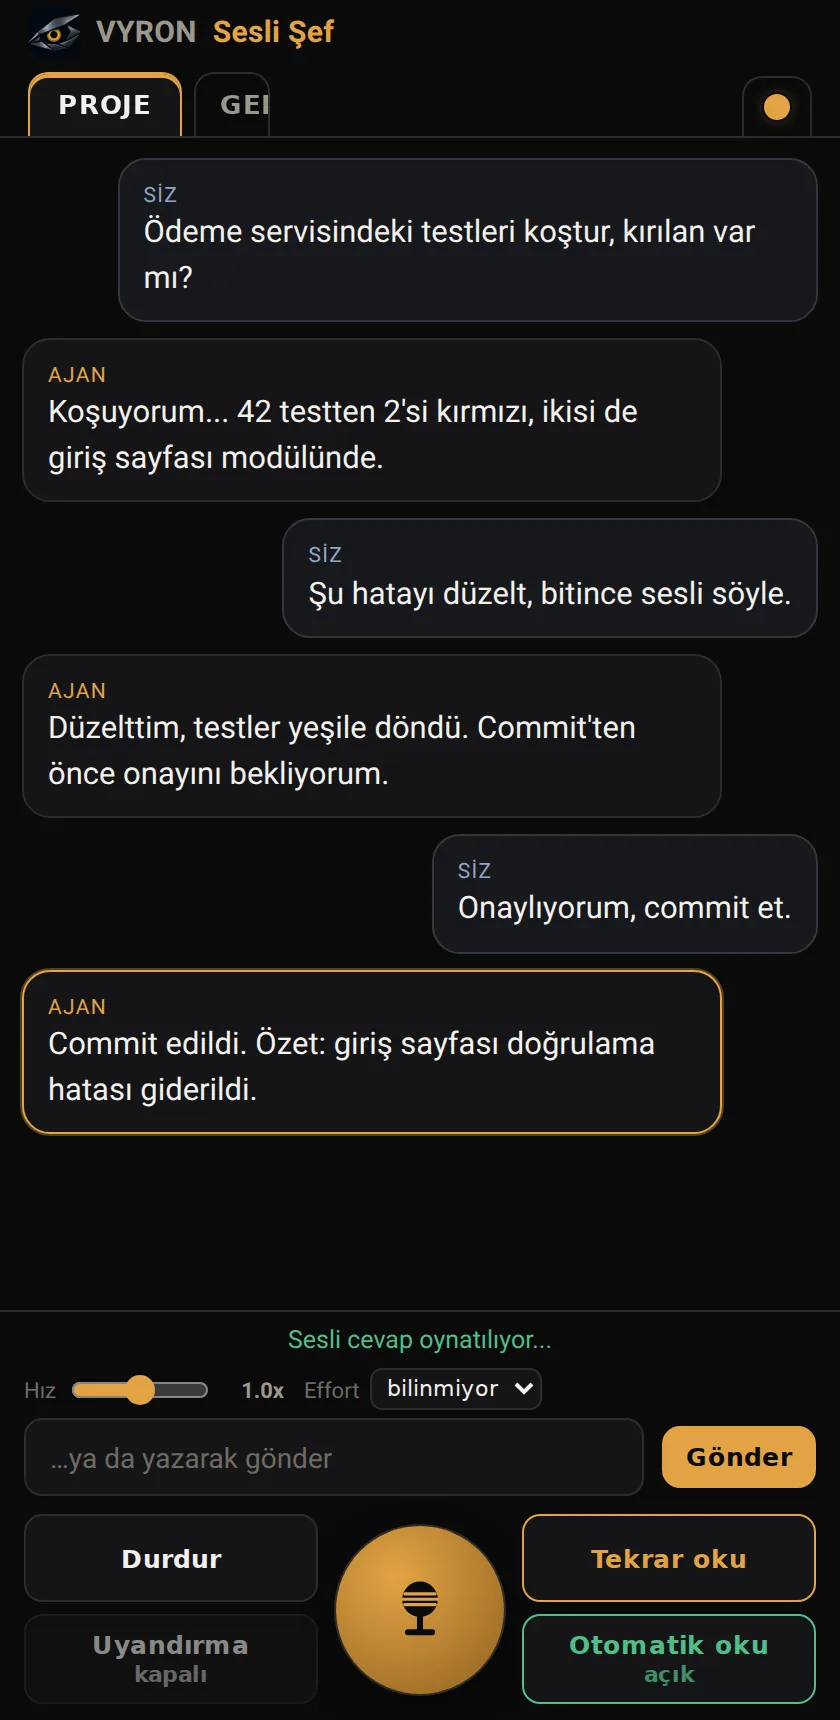
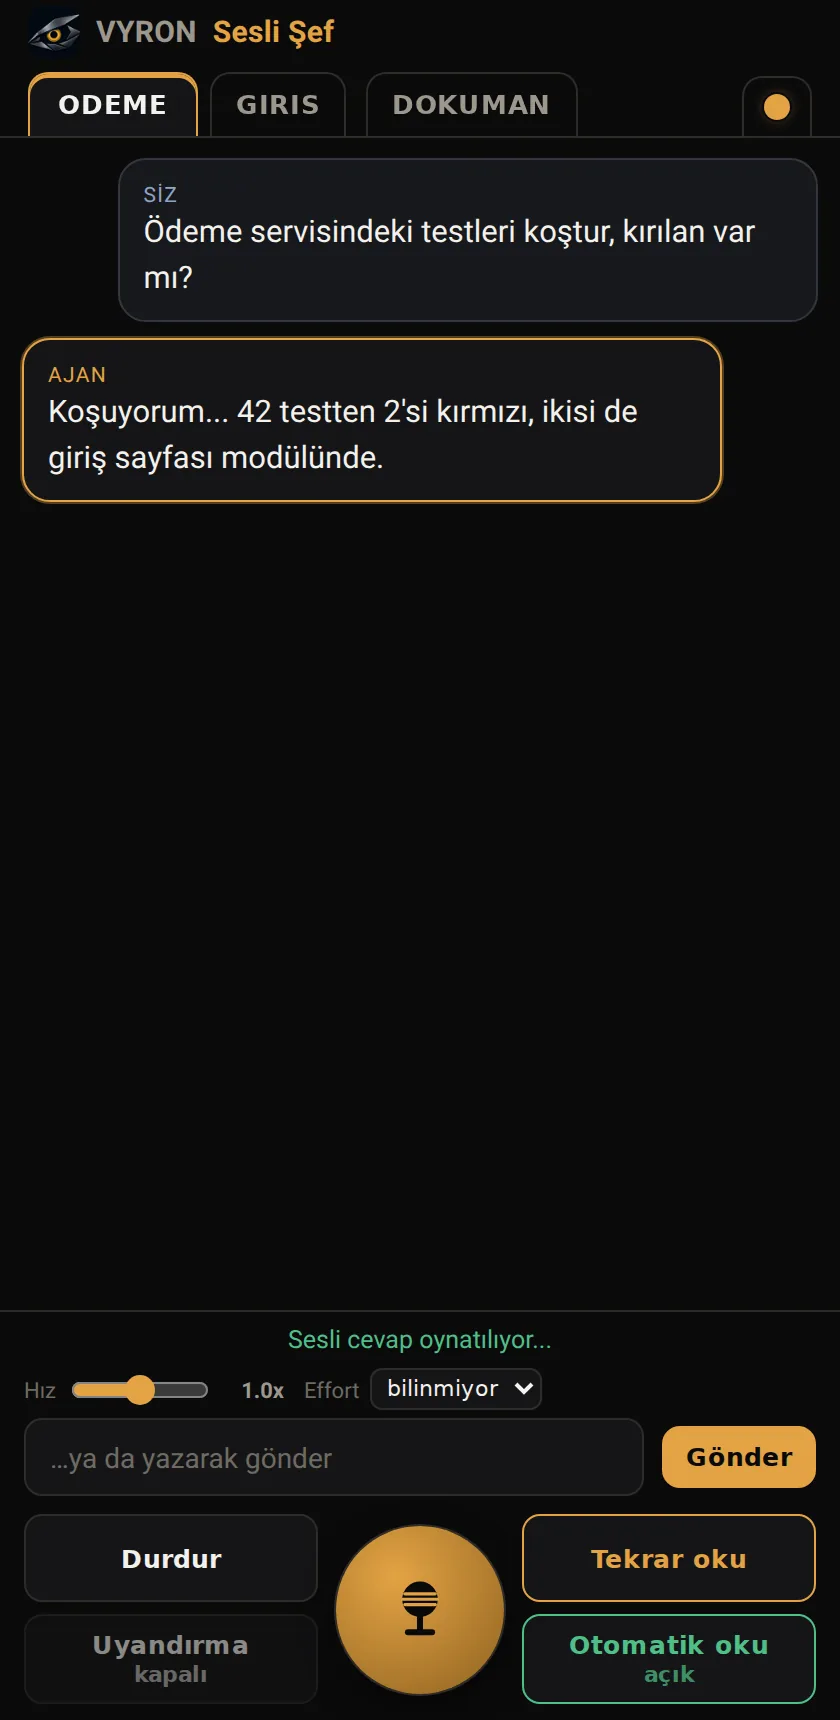
Sesli Şef ikinci görsel gerçek çerçevede yenilendi, konuşma kutusu kaldırıldı; Hakkında metni yalnız AWS
- sesli-sef-cevap.webp: uygulamanın kendi temasıyla farklı an (cevap oynatılıyor, ODEME/GIRIS/DOKUMAN sekmeleri), uydurma içerik
- index.html: ayrı HTML sohbet kutusu kaldırıldı, görseller yan yana büyütüldü; Hakkında ilk paragrafı Demir'in metniyle değişti
- yenileme.css: kullanılmayan sohbet-* kuralları silindi, Sesli Şef grid oranı
- hakkinda.html satır 54 ve 87: Google desteği ifadesi çıkarıldı, yalnız AWS başlangıç programı
- DENETIM sızıntı taraması (2. tur): TEMİZ

Claude-Session: https://claude.ai/code/session_017HsLgQXRTYNqUYrtnciSq6

diff --git a/index.html b/index.html
@@ -171,27 +171,15 @@
 <div class="ikili">
 <div class="gorsel-kutu zoomlu">
 <img class="buyu" src="assets/img/sesli-sef-dinliyor.webp" width="840" height="1720" loading="lazy" decoding="async" alt="Sesli Şef arayüzü tasarım maketi: mikrofon açık, 'Dinliyor…' durumu, örnek sohbet akışı">
-<p class="gorsel-alt">Tasarım maketi — arayüz konsepti, gerçek kayıt değildir</p>
 </div>
 <div class="gorsel-kutu zoomlu">
-<img class="buyu" src="assets/img/sesli-sef-cevap.webp" width="840" height="1720" loading="lazy" decoding="async" alt="Sesli Şef arayüzü tasarım maketi: ajan sesli cevap veriyor, son mesaj vurgulu">
-<p class="gorsel-alt">Tasarım maketi — arayüz konsepti, gerçek kayıt değildir</p>
+<img class="buyu" src="assets/img/sesli-sef-cevap.webp" width="840" height="1720" loading="lazy" decoding="async" alt="Sesli Şef arayüzü tasarım maketi: birden çok jenerik kanal sekmesi açık, ajanın cevabı vurgulu şekilde sesli oynatılıyor">
 </div>
 </div>
-<div class="gorsel-kutu sohbet-kutu" style="margin-top:16px">
-<div class="sohbet-ic">
-<div class="sohbet-balon musteri"><span class="sohbet-rol">SİZ</span>Ödeme servisindeki testleri koştur, kırılan var mı?</div>
-<div class="sohbet-balon asistan"><span class="sohbet-rol">AJAN</span>Koşuyorum... 42 testten 2'si kırmızı, ikisi de giriş sayfası modülünde.</div>
-<div class="sohbet-balon musteri"><span class="sohbet-rol">SİZ</span>Şu hatayı düzelt, bitince sesli söyle.</div>
-<div class="sohbet-balon asistan"><span class="sohbet-rol">AJAN</span>Düzelttim, testler yeşile döndü. Commit'ten önce onayını bekliyorum.</div>
-<div class="sohbet-balon musteri"><span class="sohbet-rol">SİZ</span>Onaylıyorum, commit et.</div>
-<div class="sohbet-balon asistan"><span class="sohbet-rol">AJAN</span>Commit edildi. Özet: giriş sayfası doğrulama hatası giderildi.</div>
-</div>
-<div style="margin-top:14px;padding:0 18px 18px;display:flex;align-items:center;gap:10px;flex-wrap:wrap">
+<p class="gorsel-alt">Tasarım maketi — gerçek uygulama arayüzü, tamamen uydurma içerik; gerçek kayıt değildir</p>
+<div style="margin-top:14px;display:flex;align-items:center;gap:10px;flex-wrap:wrap">
 <button type="button" class="btn btn-2" id="sesli-sef-oynat" aria-pressed="false">▶ Örnek konuşmayı dinle</button>
 <audio id="sesli-sef-audio" preload="none" src="assets/audio/sesli-sef-ornek.mp3"></audio>
-</div>
-<p class="gorsel-alt">Temsili örnek — gerçek bir kullanım oturumuna ait değildir</p>
 </div>
 </div>
 <div class="serit-metin gir">
@@ -305,7 +293,7 @@
 </div>
 <div class="hakkinda-in">
 <div class="gir">
-<p>IRON VISION, Edirne merkezli erken aşama bir yazılım girişimi. Nisan-Mayıs 2026'dan beri, işi kolaylaştıran ve tekrar eden yükü üstünüzden alan araçlar üretiyoruz. İşin çoğunu bir telefon ve bir tabletten, Windows'a hiç dokunmadan, kiralık bir Linux sunucusunda çıkarıyoruz — Google ve AWS'nin başlangıç programlarının desteğiyle.</p>
+<p>IRON VISION, Edirne merkezli bir yazılım girişimi. İşletmelerin tekrar eden yükünü üstlenen yapay zekâ araçları üretiyoruz: kurulumu biz yaparız, ürün sizde çalışır, veriniz sizde kalır. AWS başlangıç programının desteğiyle büyüyoruz.</p>
 <p>Ürünlerimizi önce kendimiz kullanıyoruz. AgentOS'un içinde bugün 10'dan fazla mikro uygulama çalışıyor: bekçiler, yedek doğrulayıcı, ses köprüsü, e-posta ve randevu hatları, site üretim hattı, anlam arama motoru. Bizde çalışmayan bir aracı müşteriye önermiyoruz.</p>
 <p>Gittiğimiz yer belli: kendi kendine çalışan bir işletme asistanı. Bu mikro uygulamaların her biri zamanla ayrı bir ürüne dönüşüyor. AWS'nin başlangıç programından destek aldık, bir üst kademeye başvuruyoruz. İş birliği ve destek için kapımız açık.</p>
 <p style="margin-top:26px"><a class="btn btn-2" href="hakkinda.html">Uzun hikâye ve mikro uygulama listesi</a></p>

diff --git a/hakkinda.html b/hakkinda.html
@@ -51,7 +51,7 @@
 <div>
 <h2 style="font-family:'Playfair Display',Georgia,serif;font-weight:700;text-transform:uppercase;font-size:clamp(22px,3vw,30px);margin:0 0 16px">Kimiz</h2>
 <p style="font-family:'Space Grotesk',Arial,sans-serif;font-size:16.5px;line-height:1.75;color:var(--dim);margin:0 0 16px">IRON VISION, Edirne merkezli erken aşama bir yazılım girişimi. Nisan-Mayıs 2026'dan beri, tutkuyla, işi kolaylaştıran ve tekrar eden yükü üstünüzden alan araçlar üretiyoruz.</p>
-<p style="font-family:'Space Grotesk',Arial,sans-serif;font-size:16.5px;line-height:1.75;color:var(--dim);margin:0 0 16px">Ofisimiz yok, sunucu odamız da yok. İşin erken aşamasını bir telefon, bir tablet ve kiralık Linux sanal makineleriyle yürüttük — Windows'a hiç dokunmadan. Bunu bir kısıtlama olarak değil, ürünlerimizin nasıl çalışması gerektiğini öğreten bir okul olarak görüyoruz: elimizdeki her araç uzaktan, az kaynakla ve kendi kendine çalışmak zorunda. Google ve AWS'nin girişimlere açtığı başlangıç kredileri ve destek programları bu yolu mümkün kıldı.</p>
+<p style="font-family:'Space Grotesk',Arial,sans-serif;font-size:16.5px;line-height:1.75;color:var(--dim);margin:0 0 16px">Ofisimiz yok, sunucu odamız da yok. İşin erken aşamasını bir telefon, bir tablet ve kiralık Linux sanal makineleriyle yürüttük — Windows'a hiç dokunmadan. Bunu bir kısıtlama olarak değil, ürünlerimizin nasıl çalışması gerektiğini öğreten bir okul olarak görüyoruz: elimizdeki her araç uzaktan, az kaynakla ve kendi kendine çalışmak zorunda. AWS'nin girişimlere açtığı başlangıç kredileri ve destek programı bu yolu mümkün kıldı.</p>
 
 <h2 style="font-family:'Playfair Display',Georgia,serif;font-weight:700;text-transform:uppercase;font-size:clamp(22px,3vw,30px);margin:34px 0 16px">Nasıl çalışıyoruz</h2>
 <p style="font-family:'Space Grotesk',Arial,sans-serif;font-size:16.5px;line-height:1.75;color:var(--dim);margin:0 0 16px">Kuralımız tek: bir ürün önce bizde çalışacak. Sitede gördüğünüz panel ekranı da, sesli asistan da bizim günlük iş akışımızın parçası. Bizde çalışmayan bir aracı müşteriye önermiyoruz — bir şeyin ne kadar hazır olduğunu da olduğu gibi yazıyoruz.</p>
@@ -84,7 +84,7 @@
 <dl class="kutucuk"><dt>Ürün ve uygulama</dt><dd>4 ürün · AgentOS içinde 10+ çalışan mikro uygulama</dd></dl>
 <dl class="kutucuk"><dt>Nasıl çalışıyoruz</dt><dd>Telefon ve tabletten, kiralık bir Linux sunucusunda</dd></dl>
 <dl class="kutucuk"><dt>İletişim</dt><dd><a href="mailto:founder@ironvisiontools.com" style="color:#8fb4ff">founder@ironvisiontools.com</a></dd></dl>
-<dl class="kutucuk" style="margin-bottom:0"><dt>Destek</dt><dd>Google ve AWS başlangıç programları</dd></dl>
+<dl class="kutucuk" style="margin-bottom:0"><dt>Destek</dt><dd>AWS başlangıç programı</dd></dl>
 </div>
 </div>
 </div>

diff --git a/assets/css/yenileme.css b/assets/css/yenileme.css
@@ -112,18 +112,6 @@ body{overflow-x:hidden}
   background:rgba(0,0,0,.62);border:1px solid rgba(255,255,255,.24);border-radius:999px;padding:6px 12px}
 .ikili{display:grid;grid-template-columns:1fr;gap:16px;align-items:start}
 @media (min-width:560px){.ikili{grid-template-columns:1fr 1fr}}
-/* kurgusal demo sohbeti (09.09: gerçek kayıt yerine) — .gorsel-kutu/.gorsel-alt kabını kullanır */
-.sohbet-kutu{background:var(--card)}
-.sohbet-ic{padding:22px 18px;display:flex;flex-direction:column;gap:10px}
-.sohbet-balon{max-width:84%;padding:10px 14px;border-radius:14px;font-family:'Space Grotesk',Arial,sans-serif;
-  font-size:14px;line-height:1.5;color:var(--txt)}
-.sohbet-balon .sohbet-rol{display:block;font-size:10px;font-weight:700;letter-spacing:.12em;
-  text-transform:uppercase;margin-bottom:4px;opacity:.62}
-.sohbet-balon.musteri{align-self:flex-start;background:var(--card2);border:1px solid var(--line);
-  border-bottom-left-radius:4px}
-.sohbet-balon.asistan{align-self:flex-end;background:var(--acc-soft);border:1px solid rgba(10,83,211,.4);
-  border-bottom-right-radius:4px;color:#eaf1ff}
-@media (max-width:480px){.sohbet-balon{max-width:92%;font-size:13.5px}}
 .sema{border:1px solid var(--line);border-radius:18px;background:var(--card);padding:18px 14px}
 .sema svg{width:100%;height:auto;display:block}
 @media (max-width:760px){.sema{overflow-x:auto}.sema svg{min-width:720px}}
@@ -347,3 +335,8 @@ img.buyu:focus-visible{outline:2px solid var(--acc-yazi);outline-offset:3px}
 #sesli-sef .liste li{color:#332a05}
 #sesli-sef .liste li::before{background:#1a1a1a}
 #sesli-sef .gorsel-kutu{border-color:rgba(26,26,26,.28)}
+/* 11.09 Demir geri bildirimi: iki arayüz görseli küçük/sıkışık duruyordu —
+   görsel sütununa biraz daha pay verildi (renk/arkaplan DEĞİŞMEDİ, yalnız oran). */
+@media (min-width:960px){
+  #sesli-sef .serit-in{grid-template-columns:minmax(0,1.22fr) minmax(0,.88fr);gap:56px}
+}
